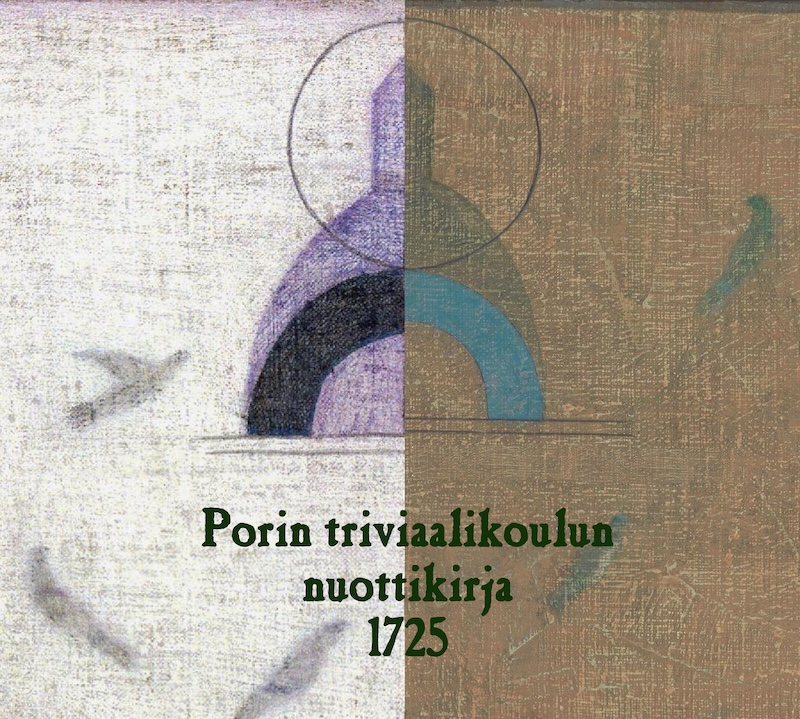
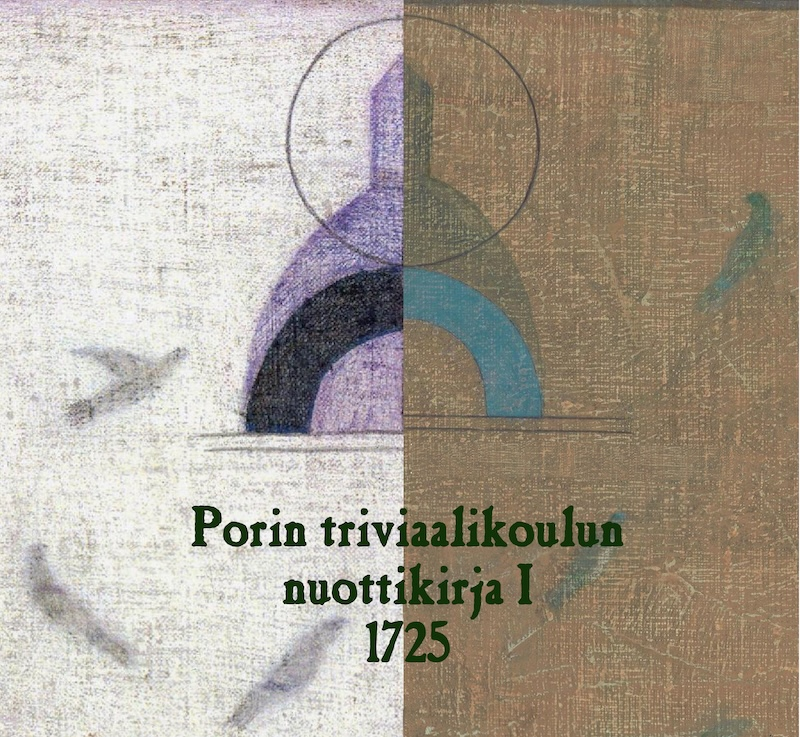
Add contact info, add roman number to title

diff --git a/README.md b/README.md
@@ -1,29 +1,29 @@
-# Porin triviaalikoulun nuottikirja
+# Porin triviaalikoulun nuottikirja I
 
 ![Nuottikirjan etusivu](nuottikirja-cover-small.jpg)
 
-
-Osa Porin triviaalikoulun nuottikirjasta (1725) puhtaaksi kirjoittettuna kirjana. Tämän edition on toimittanut Johannes Vesterinen ja puhtaaksikirjoittanut Yrjö Kari-Koskinen.
+Osa Porin triviaalikoulun nuottikirjasta (1725) puhtaaksi kirjoittettuna kirjana. Tämän edition on toimittanut Johannes Vesterinen ja puhtaaksikirjoittanut Yrjö Kari-Koskinen. Esipuheen on kirjoittanut Jaakko Saarinen.
 
 PDF-muotoiset nuotit löytyvät sivulta https://triviaalikoulu.sonusborealis.fi
 
-Korjauksia ja täydennyksiä otetaan kernaasti vastaan. Varmistathan, että et käytä lähteenä tekijänoikeuden alaisia editioita (esim. modernit Piae Cantiones -julkaisut).
+Korjauksia ja täydennyksiä otetaan kernaasti vastaan. Varmistathan, että et käytä lähteenä tekijänoikeuden alaisia editioita (esim. modernit Piae Cantiones -julkaisut). Yhteystiedot: yrjo.karikoskinen@gmail.com.
 
 ![Bassus-stemmakirjan avaussivu](facsimile/bassus.jpg)
 
 ## Lähteet
 
 ### Ensisijainen nuottilähde
+
 [Porin triviaalikoulun ääni- eli stemmakirjat – JYX/Nuottijulkaisut, Gudrun Viergutz](https://jyx.jyu.fi/handle/123456789/19464), 1725
 - [Discantus](https://jyx.jyu.fi/dspace/handle/123456789/18957)
 - [Altus](https://jyx.jyu.fi/dspace/handle/123456789/18955)
 - [Tenor](https://jyx.jyu.fi/dspace/handle/123456789/18958)
 - [Bassus](https://jyx.jyu.fi/dspace/handle/123456789/18956)
 
-### Muut lähteet
+### Muut nuottilähteet
 
-- Bodenschatz, Erhard: [Florilegium Portense I](https://imslp.org/wiki/Florilegium_Portense_I_(Bodenschatz%2C_Erhard)), 1618, lähteenä _Repleatur os meum_ -kappaleen tavutuksessa
-- Bodenschatz, Erhard: [Florilegii Musicii Portensis II](https://imslp.org/wiki/Florilegii_Musicii_Portensis_II_(Bodenschatz%2C_Erhard)), 1621, lähteenä _Anima mea expectat Dominum_ -kappaleen tavutuksessa
+- Bodenschatz, Erhard: [Florilegium Portense](https://imslp.org/wiki/Florilegium_Portense_I_(Bodenschatz%2C_Erhard)), 1618, lähteenä _Repleatur os meum_ -kappaleen tavutuksessa
+- Bodenschatz, Erhard: [Florilegii Musici Portensis II](https://imslp.org/wiki/Florilegii_Musicii_Portensis_II_(Bodenschatz%2C_Erhard)), 1621, lähteenä _Anima mea expectat Dominum_ -kappaleen tavutuksessa
 - Helmhack, Erasmus: [Psalm-singende Und Lobgesäng-spielende Kirche Christi In Des H. Röm. Reichs](https://books.google.fi/books?id=_IbEDNe32scC), 1704, lähteenä _Lobt Gott ihr Christen alle_ -kappaleen sanoituksessa
 - Maskulainen, Hemminki: [Wanhain Suomen maan pijspain ja Kircon Esimiesten Latinan kielised laulud](https://www.doria.fi/handle/10024/59053), 1616, lähteenä _Jucundare jugiter_- ja _Ætas carmen melodiæ_ -kappaleiden suomenkielisissä sanoituksissa
 - Rutha, Theodoricus Petri: [Piae Cantiones](http://www.lillhannus.net/piae-cantiones/), 1625, edition © Mats Lillhannus 2010, lupa käyttää lähteenä
@@ -33,9 +33,9 @@ Korjauksia ja täydennyksiä otetaan kernaasti vastaan. Varmistathan, että et k
 
 ## Sisällys
 
-1. A Deo principium – säveltäjä: Hans Leo Hassler (1564–1612)
-1. Ah Jesu mellitissime – säveltäjä: Gallus Dressler (1533–1585)
-1. Alleluja in resurrectione tua Christe – säveltäjä: Jacobus Gallus (1550–1591)
+1. A Deo principium (à 4) – säveltäjä: Hans Leo Hassler (1564–1612)
+1. Ah Jesu mellitissime (à 4) – säveltäjä: Gallus Dressler (1533–1585)
+1. Alleluja in resurrectione tua Christe (à 8) – säveltäjä: Jacobus Gallus (1550–1591)
 1. Allenaste Gud i himmelrik / Ainoan Jumalan corkiudhes (à 4) – säveltäjä: Hieronymus Praetorius (1560–1629)
 1. Ætas carmen melodiæ / Äänel caunist monen mutcain (à 4) – säveltäjä: Daniel Friderici (1584-1638), suomenkieliset sanat: Hemminki Maskulainen (n. 1550–1619)
 1. Anima mea expectat Dominum (à 8) – säveltäjä: Friedrich Weißensee (1560-1622)
@@ -53,16 +53,16 @@ Korjauksia ja täydennyksiä otetaan kernaasti vastaan. Varmistathan, että et k
 1. Jucundare jugiter / Ain iloidca, ain riemuidca (à 4) – säveltäjä: Daniel Friderici, suomenkieliset sanat: Hemminki Maskulainen
 1. Laus tibi Christe (à 4) – säveltäjä tuntematon
 1. Lobt Gott ihr Christen alle (à 5) – säveltäjä: Daniel Friderici
-1. Låt oss liufliga siunga
+1. Låt oss liufliga siunga (à 4), säveltäjä tuntematon
 1. Mens confisa Deo (à 4) – säveltäjä: Daniel Friderici
 1. Nunc Zymphonizate (à 5) – säveltäjä: Giovanni Gastoldi (n. 1554–1609)
 1. Omnes gentes plaudite manibus (à 8) – säveltäjä: Jacobus Gallus
 1. Repleatur os meum (à 8) – säveltäjä: Gabriele Fattorini (1570-1615)
 1. Si Angelus de coelo (à 4) – säveltäjä tuntematon
 1. Susanna se, videns (à 4) – säveltäjä: Didier Lupi (n. 1520–1560)
+1. Veni Sancte Spiritus (longum, à 5) – Andreas Hammerschmidtin (1611–1675) mukaan
 1. Veni Sancte Spiritus (à 4) – säveltäjä tuntematon
-1. Veni Sancte Spiritus (à 4, sovitus) – säveltäjä tuntematon, sovitus: Johannes Vesterinen (1979–)
-1. Veni Sancte Spiritus (longum) à 5 – säveltäjä tuntematon
+1. Veni Sancte Spiritus (à 4) – säveltäjä tuntematon, sovitus: Johannes Vesterinen (1979–)
 
 ## Kirjan latominen
 
